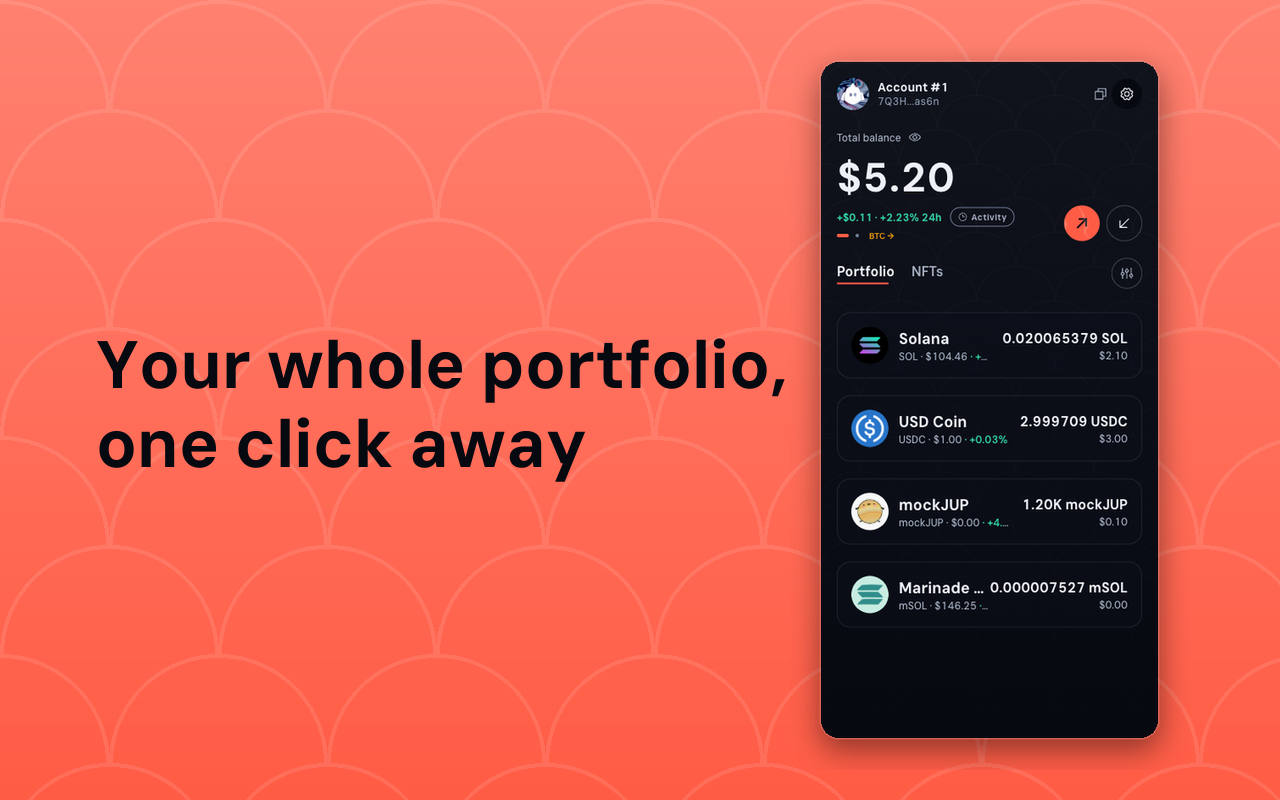
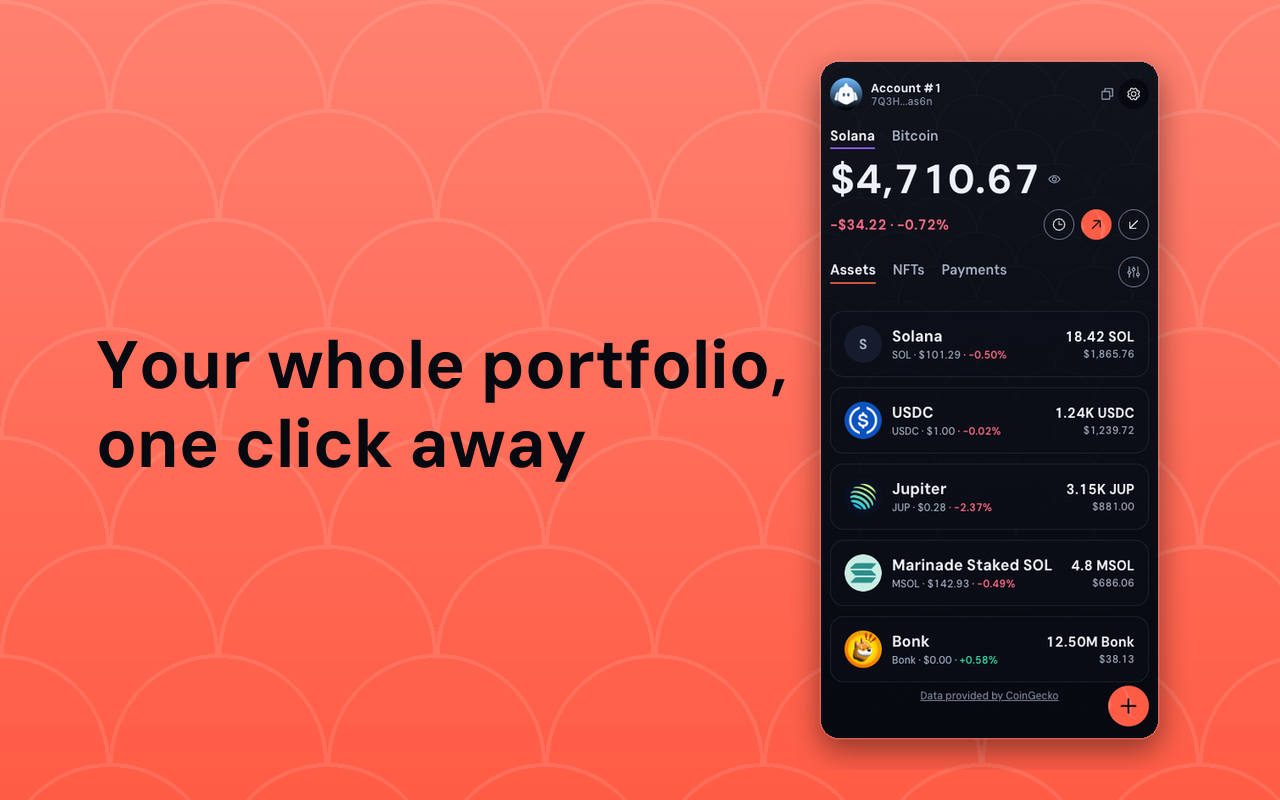
store-assets: 1.4.0 decks for App Store (global and U.K.) and Chrome Web Store, store graphics, SKR staging

diff --git a/store-assets/compose.py b/store-assets/compose.py
@@ -35,7 +35,7 @@ PHONE_DECK = [
     SWAP,
     ("03-powerups", None, "Switch Powerups on\nwhen you need them", "coral"),
     ("04-payments", None, "Get paid\nwith a QR code", "navy"),
-    ("05-send", None, "Send to any wallet\nor .sol name", "coral"),
+    ("05-send", None, "Send to any wallet\nor .sns name", "coral"),
     ("06-nfts", None, "Your NFTs,\nfront and center", "navy"),
 ]
 # The U.K. listing must not show Swap: token detail takes its place, and the
@@ -60,7 +60,7 @@ CWS_DECK = [
     ("02-swap",         "Swap tokens.\nSee every cost first.",    "navy"),
     ("03-powerups",     "Switch Powerups on\nwhen you need them", "coral"),
     ("04-sign",         "Know what you sign\nbefore you sign",    "navy"),
-    ("05-send",         "Send to any wallet\nor .sol name",       "coral"),
+    ("05-send",         "Send to any wallet\nor .sns name",       "coral"),
 ]
 
 STORES = {
@@ -221,7 +221,7 @@ def compose(store):
         # device->piso y el frame respira parejo.
         gap = round(ch * 0.042)
         avail_h = ch - caption_bottom - gap * 2
-        device = rounded_device(Image.open(shot_path), round(cw * 0.60))
+        device = rounded_device(Image.open(shot_path), round(cw * 0.74))
         if device.height > avail_h:
             scale = avail_h / device.height
             device = device.resize((round(device.width * scale), round(device.height * scale)), Image.LANCZOS)

diff --git a/store-assets/README.md b/store-assets/README.md
@@ -6,34 +6,29 @@ asset specs, Apple screenshot specs 2025+, AMO listing guide).
 
 | Store | What goes here | Required | Status |
 |---|---|---|---|
-| `play/` | `feature-graphic.png` 1024×500 (required), `icon-512.png` 512×512 32-bit with alpha (required), `phone/` 2–8 screenshots 9:16 (1080×1920 ✓), `listing.txt` copy | yes | **complete** — 6 frames on the redesign (2026-09-03, dark mode, Pixel 9 Pro emulator via `flows/store/capture.yaml`). **Stale since 1.3.0:** production builds carry Powerups, so Home gains Swap and Payments tabs and the deck lacks a Swap frame |
-| `app-store/iphone-6.9/` | 1290×2796 or 1320×2868 portrait screenshots (the required tier since 2025) | yes, before first submission | **complete** — 6 frames 1320×2868 (Home, Send amount, Activity, NFTs, NFT detail, Token detail) from the iPhone 16 simulator (2026-09-03, redesign, no Powerup, no About). **Stale since 1.3.0:** the shipped Home shows the Powerup tabs, `01-home` shows a test token (`mockJUP`), and there is no Swap frame. Recapture from a Release build: `run.sh --device <udid> -e OUT=… flows/store/capture.yaml` then `compose.py app-store`; the dev-client gear is hidden before capturing (see below) |
-| `chrome-web-store/` | `screenshots/` 1280×800 (min 1, up to 5), `store-icon-128.png` (96×96 art in 128 canvas ✓), `promo-small-440x280.png` (required — listings without it rank below listings that have one) | yes | **complete** — 5 screenshots from the extension side panel (400×800 captures via `apps/extension/.playwright/scripts/store-shots.mjs`), composed by `compose.py chrome-web-store` |
-| `amo/screenshots/` | 1280×800 recommended (1.6:1) | recommended | empty — can reuse the CWS captures, but prefer un-captioned crops: AMO advises against text on the image |
-| `play/tablet-7/` · `play/tablet-10/` | 4–8 screenshots each, 1,080–7,680px, 9:16 or 16:9 | no, but see below | **missing** — never captured |
-| `source/` | raw, unframed captures (Maestro / Playwright output) before any framing | — | `android-staged/` (7, redesign), `ios-staged/` (6, redesign), `extension-staged/` (side panel 400×800) |
+| `app-store/iphone-6.9/` | 1320×2868 portrait screenshots; App Store Connect scales them to the required "iPhone with Dynamic Island (medium)" class | yes | 6 frames for 1.4.0: Home, Swap review, Powerups catalogue, Payments QR, Send review, NFTs |
+| `app-store/iphone-6.9-uk/` | the English (U.K.) localisation's set | yes, for the U.K. listing | the same deck with no Swap anywhere: token detail replaces the Swap frame, and the catalogue is the one captured with Swap switched off for the region |
+| `app-store/header-3840x1646.png` | product page header (creative asset, guideline 2.3.14) | no | from `SOT/03-dev/Design System/Store Graphics.pen` |
+| `play/` | `feature-graphic.png` 1024×500, `icon-512.png`, `phone/` 2–8 screenshots, `listing.txt` | yes | feature graphic from `Store Graphics.pen`; `phone/` is the App Store deck on Android |
+| `play/tablet-7/` · `play/tablet-10/` | 4–8 screenshots each, 1,080–7,680px | no, see below | filled with the phone frames |
+| `dapp-store/` | `screenshots/` 4–8 of one size, `banner-1200x600.png`, `icon-512.png` (opaque) | yes | banner from `Store Graphics.pen`; screenshots show the Seeker features (Seed Vault, Mobile Wallet Adapter, SKR) |
+| `chrome-web-store/` | `screenshots/` 1280×800 (up to 5), `store-icon-128.png`, `promo-small-440x280.png` | yes (promo tile ranks the listing) | 5 frames from the side panel: Home, Swap review, Powerups, a dApp message to sign, Send review; promo tile from `Store Graphics.pen` |
+| `amo/screenshots/` | 1280×800 | recommended | empty: the extension never shipped on Firefox |
+| `source/` | raw captures, never uploaded | — | `ios-staged/`, `android-staged/`, `seeker-staged/`, `extension-staged/` |
 
-## iOS captures: the dev-client gear (2026-09-03)
+Captions live in `compose.py`'s decks. They count as listing metadata: no "exchange", "trade" or "order", no prices or awards, and the U.K. deck never mentions Swap.
 
-The simulator shots come from the Expo dev client, whose floating gear sits
-bottom-right (and over the header on the auth screens). It is not part of the
-app; Apple will reject a screenshot that shows it. Before submission either
-crop/paint it out in `compose.py` or capture from a release build
-(`expo run:ios --configuration Release`), which has no overlay. Same gear made
-the Settings header untappable through Maestro on iOS; `open-settings.yaml`
-closes the dev menu and retries.
+## Refreshing the decks
 
-## Staging (2026-09-03)
+Every screenshot shows one fictional account (Apple 2.3.9): the same balances, history and NFTs on every platform. `staging/proxy.mjs` stands in front of the production API, answers the staged wallets' balance, history, stakes, NFTs and SKR position from `staging/staged.mjs`, and passes everything else through, so prices, charts and the Swap quote are real. Pass-through answers are recorded in `staging/cache/` and replayed, so a deck shot today and one shot next week show the same figures; delete the cache to record fresh prices. The NFTs are Salmon's own art (`staging/make-nft-art.py`), served from this repository over https because the app loads NFT media over https only.
 
-The 2026-08 deck was captured against a mock backend that staged a $13,046.12
-portfolio; that mock server was never committed. The 2026-09-03 captures run
-against the **live** local backend with Wallet A from `.env.test` (the same
-fixture wallet the e2e suites use) — real, small balances. Apple §2.3.9 wants
-fictional data, so before the next submission either commit a mock (a Node
-proxy in front of `salmon-api` that stages the balance, history and NFT
-endpoints and passes everything else through; `EXPO_PUBLIC_API_HOST/PORT` for
-mobile, `context.route()` in the Playwright script for the side panel) or
-accept the live figures. The capture flows do not care which.
+1. `store-assets/staging/run.sh` starts the proxy on port 3900 (`STAGING_REGION=uk` switches Swap off for the U.K. catalogue).
+2. iOS: build a Release app pointed at it, `EXPO_PUBLIC_SALMON_ENV=production EXPO_PUBLIC_API_URL=http://localhost:3900 npx expo run:ios --configuration Release --device <udid> --no-bundler`, then from `apps/mobile/.maestro`: `SALMON_API_URL=http://localhost:3900 ./run.sh --release --device <udid> --test-output-dir=<dir> -e OUT=ios flows/store/capture.yaml` and `flows/store/capture-uk.yaml` (with the U.K. proxy). Maestro 2.11 writes screenshots only inside `--test-output-dir`; copy them into `source/ios-staged/`.
+3. Android: a debug build (a release build refuses plain http to the proxy) with Metro started with the same `EXPO_PUBLIC_*` values; the same flows with `--device emulator-5554`. Play's emulator must not run Seed Vault, or the catalogue offers SKR.
+4. Extension: `VITE_API_URL=http://127.0.0.1:3900 pnpm build` in `apps/extension`, then `node .playwright/scripts/store-shots.mjs`.
+5. `python3 store-assets/compose.py` frames every deck; it clears each output folder first, so no stale frame survives.
+
+The Swap frame quotes 0.01 SOL: the backend quotes only amounts the demo wallet really holds, so the quote is live while the balance on screen is staged. Nothing in the flows signs: Swap stops on its review, the dApp request is closed unanswered.
 
 ## Tablets: deliberately deferred (2026-08-07)
 
